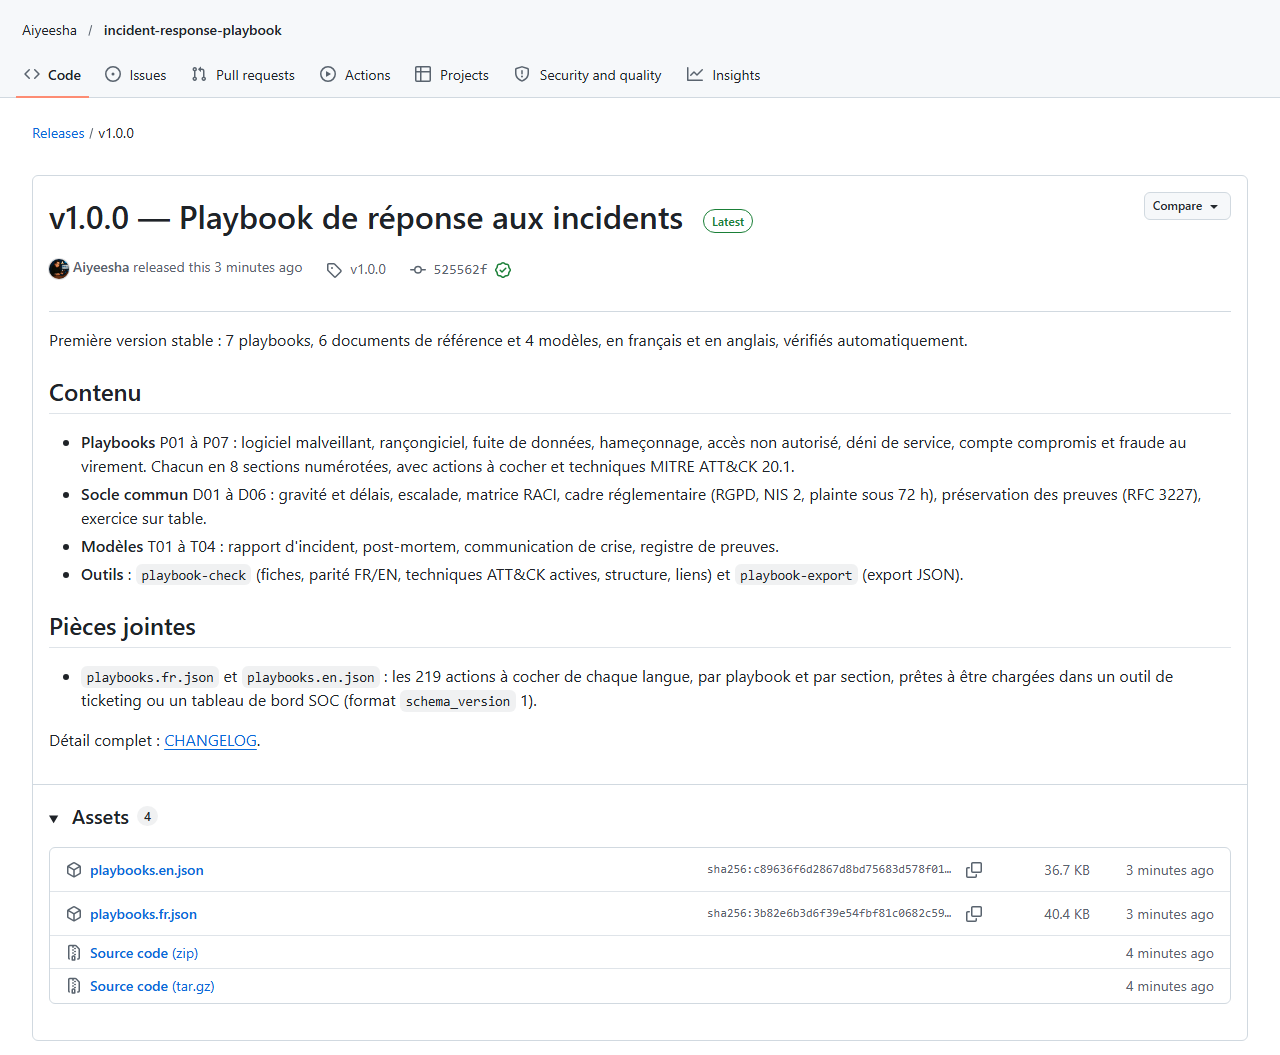
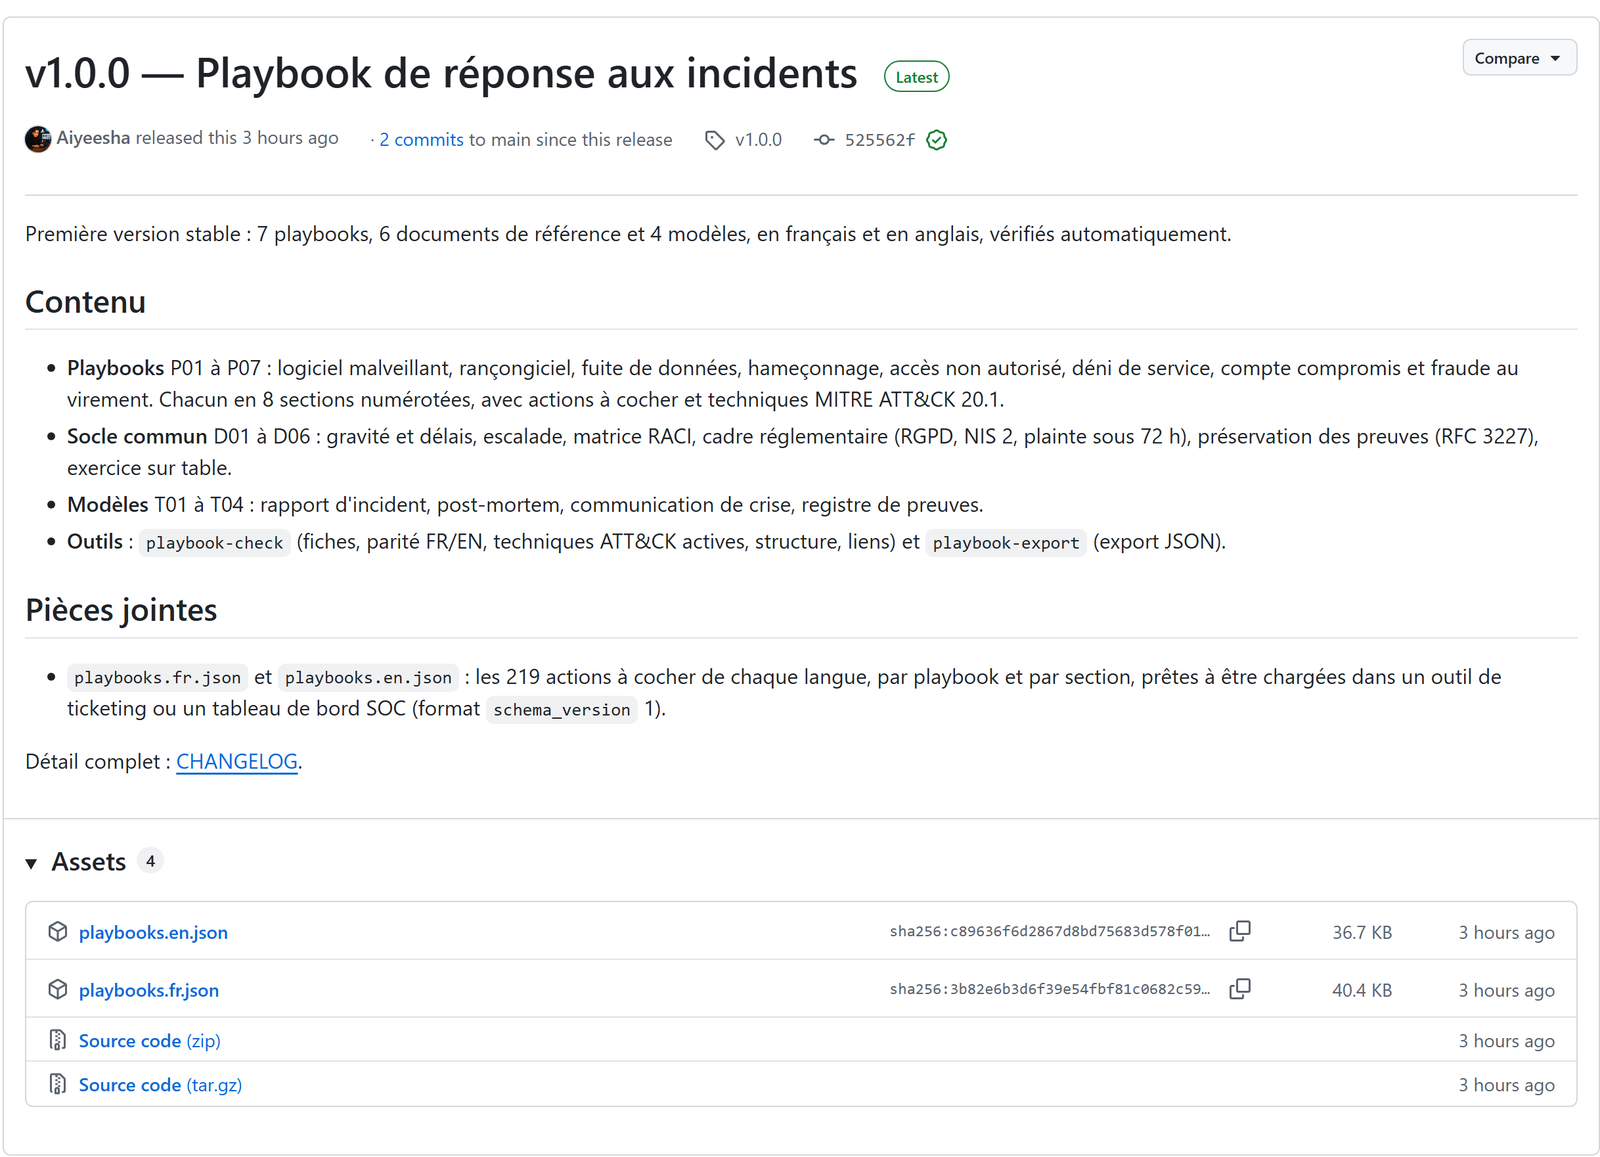
fix: remplace les captures illisibles d'Incident Response Playbook
Les captures GitHub montraient des pages entières, illisibles une fois réduites dans
la galerie. Remplacées par des captures en double résolution recadrées en paysage :
README avec badges, métadonnées du playbook rançongiciel, actions à cocher (triage et
confinement) et version v1.0.0 avec les exports JSON.

diff --git a/content/projectDetails.ts b/content/projectDetails.ts
@@ -9571,8 +9571,16 @@ export const projectDetails: ProjectDetails[] = [
         "src": "/projects/incident-response-playbook/cover.svg"
       },
       {
-        "alt": "Ransomware playbook rendered on GitHub, with its front matter table (French)",
-        "src": "/projects/incident-response-playbook/github-playbook-fr.png"
+        "alt": "Repository README on GitHub with CI, Python, dependency, ATT&CK and licence badges",
+        "src": "/projects/incident-response-playbook/github-readme-en.png"
+      },
+      {
+        "alt": "Ransomware playbook front matter rendered as a table on GitHub, with its MITRE ATT&CK techniques",
+        "src": "/projects/incident-response-playbook/github-playbook-en.png"
+      },
+      {
+        "alt": "Triage and containment checklists of the ransomware playbook on GitHub",
+        "src": "/projects/incident-response-playbook/github-checklist-en.png"
       },
       {
         "alt": "Release v1.0.0 on GitHub with the JSON exports attached",

diff --git a/CHANGELOG.md b/CHANGELOG.md
@@ -17,6 +17,7 @@ Versions follow [Semantic Versioning](https://semver.org/spec/v2.0.0.html).
 
 ### Added
 
+- **Captures lisibles pour « Incident Response Playbook »** — Les captures GitHub de la galerie montraient des pages entières, illisibles une fois réduites. Elles sont remplacées par des captures en double résolution, recadrées au format paysage : README avec ses badges, fiche du playbook rançongiciel (tableau de métadonnées et techniques MITRE ATT&CK), listes d'actions à cocher (triage et confinement) et version v1.0.0 avec les exports JSON.
 - **Projet « Incident Response Playbook » publié pour le nouveau dépôt** — La fiche `incident-response-playbook`, restée en brouillon et redirigée vers `incident-response-tracker`, présente désormais [Aiyeesha/incident-response-playbook](https://github.com/Aiyeesha/incident-response-playbook) (v1.0.0, public) : 7 playbooks en 8 phases numérotées (dont le nouveau P07, compte compromis et fraude au virement), 6 documents de référence et 4 modèles, en français et en anglais ; délais RGPD, NIS 2 et plainte pour l'assurance ; outil `playbook-check` (parité FR/EN, techniques MITRE ATT&CK 20.1 actives, structure, liens) et export JSON `playbook-export`. Contenu EN/FR/ES (`content/projects.ts`, `content/projectDetails.ts`), points forts traduits (`content/projectHighlights.ts`), couverture SVG tirée d'une sortie réelle des deux outils et deux captures des pages GitHub. La redirection vers `incident-response-tracker` est retirée de `UNPUBLISHED_PROJECTS` (`next.config.mjs`). Le brouillon `incident-management-dashboard` perd son lien vers l'ancien dépôt `playbook-reponse-incidents`, archivé en privé, et `/admin/incidents` pointe vers le nouveau dépôt ; ses listes d'actions, tirées des anciens playbooks P01 à P06, restent inchangées.
 - **Projet « Port Scanner » réécrit pour le nouveau dépôt `port-scanner`** — La carte et la fiche `python-network-scanner` (slug conservé pour ne casser aucun lien) décrivaient un ancien projet FastAPI + React sans dépôt public. Elles présentent désormais [Aiyeesha/port-scanner](https://github.com/Aiyeesha/port-scanner) (v1.1.0) : scanner TCP asynchrone sans dépendance, sécurisé par défaut (réseaux privés uniquement), fiches de risque et recommandations, interface web locale durcie (jeton, contrôles Host/Origin, CSP stricte) et volet détection Blue Team (Wireshark, deux règles Suricata, une corrélation Sigma, rejouées en CI ; MITRE ATT&CK T1046). Contenu EN/FR/ES (`content/projects.ts`, `content/projectDetails.ts`), points forts traduits (`content/projectHighlights.ts`), nouvelle couverture SVG tirée d'une sortie réelle de l'outil et deux captures de l'interface ; l'ancienne capture `screenshot-1.svg` est supprimée.
 - **Recherche dans la palette de commandes (⌘K / Ctrl K)** — En plus des pages et actions, la palette retrouve désormais les projets publiés, les articles du blog et les certifications (obtenues et en préparation), par titre ou par technologie : « apex », « pfsense » ou « security+ » mènent directement à la bonne fiche, et une certification ouvre sa carte sur `/certifications#<id>`. Les résultats n'apparaissent qu'à la saisie, pour garder la liste par défaut courte. L'index (≈ 14 Ko par langue, ≈ 3 Ko compressé) est généré au build par `GET /api/palette-index/[locale]` (`lib/search/paletteIndex.ts`) et chargé seulement à la première ouverture : le HTML des pages ne grossit pas. Le filtre flou de cmdk, qui faisait remonter des titres sans rapport (« pfsense » → 30 résultats), est remplacé par une correspondance par mots, sans accents ni casse, qui classe le titre avant les mots-clés (`lib/search/paletteFilter.ts`). Tests unitaires et e2e ajoutés.
